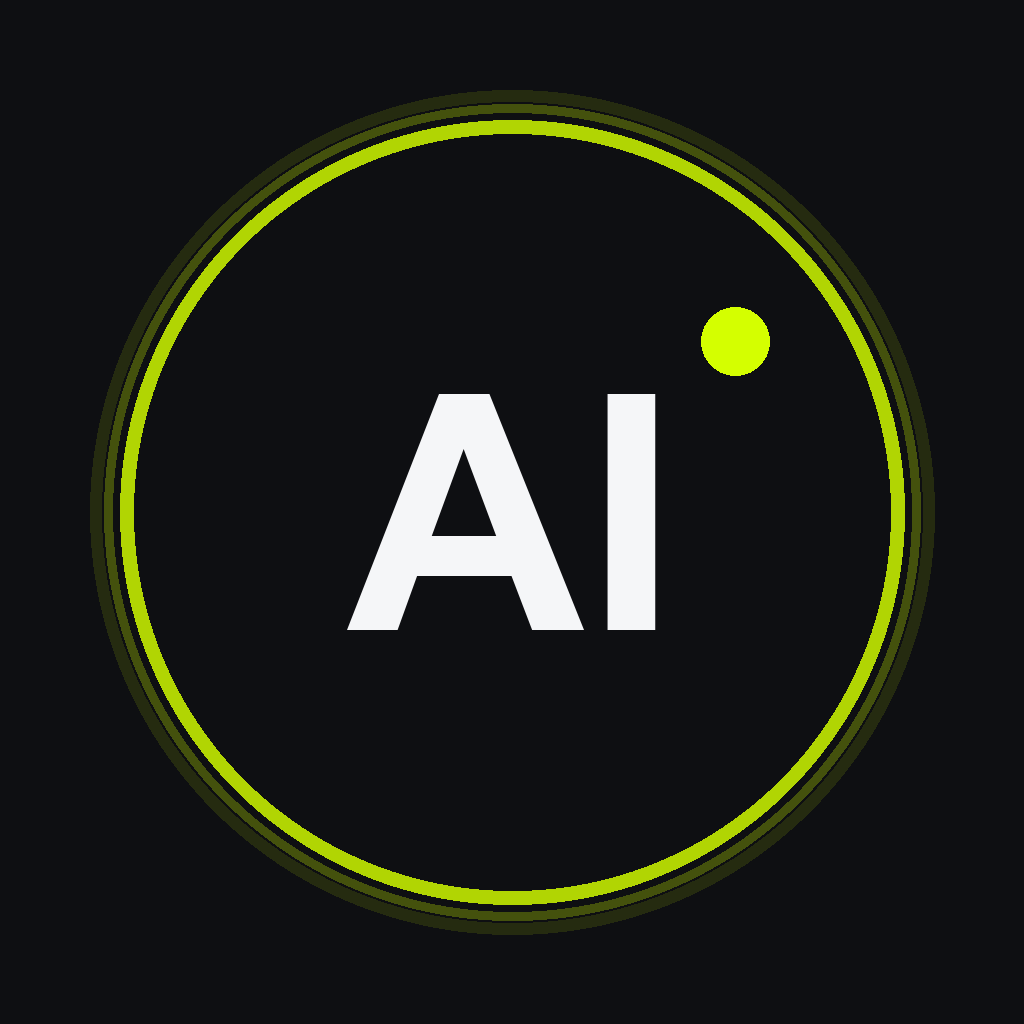
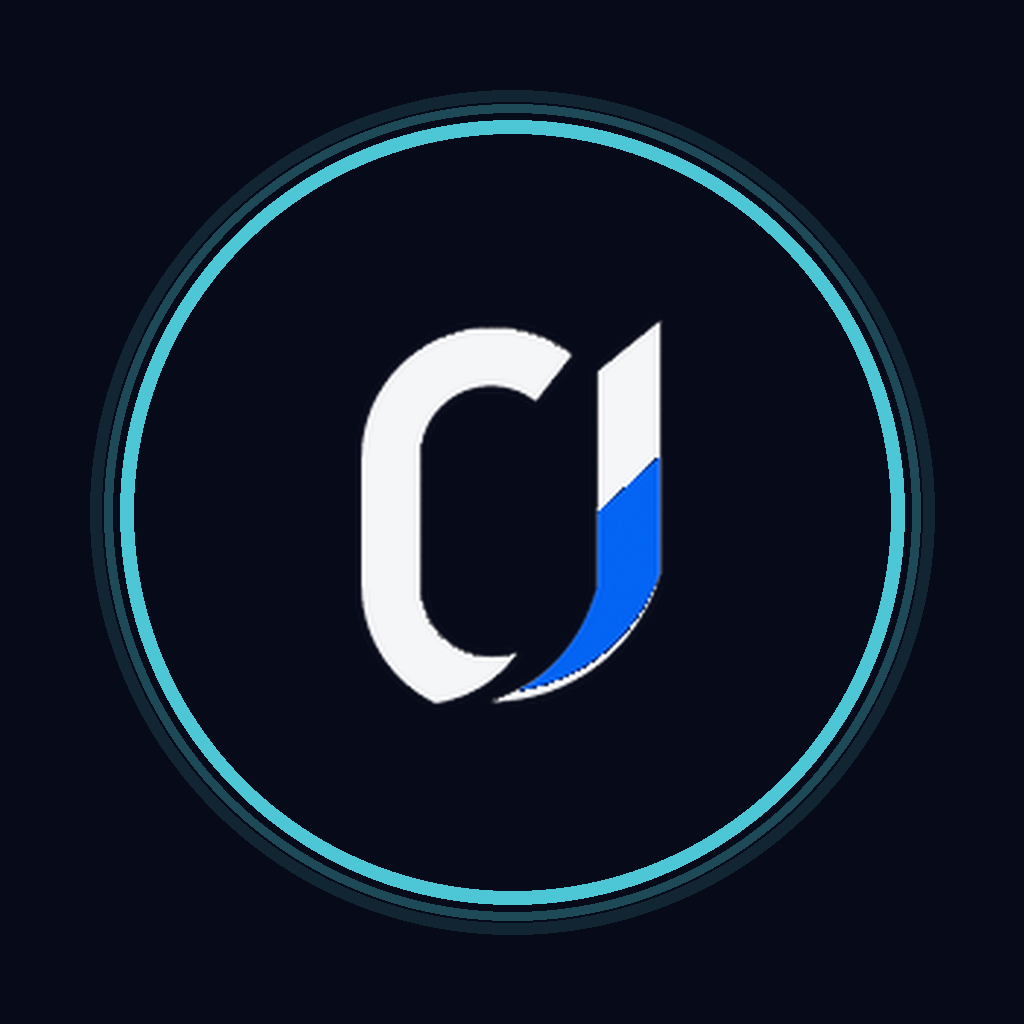
feat: 开屏与图标切换公司品牌——01WeiChuang 字标 + 官网深空视觉
负责人定稿方向:文字用英文 01WeiChuang,风格对齐公司官网
(01weichuang.com,深空蓝 #070A18 + 霓虹青 #5CF0FF + 径向顶光),
中心换公司图标:

- 官网 logo 摘取「01」字标并转白(黑色部分→白,保留品牌蓝斜杠,
  assets/images/company-mark.png)
- 开屏:官网同款径向渐变底(experimental_backgroundImage)+ 字标
  居中呼吸 + 青色彗星拖尾绕标 + 「01WeiChuang」逐字波浪(青色
  霓虹)+ 星点;≈2.6s 淡出
- 原生启动图/App 图标/Android 自适应图标同步公司品牌(深空底+
  青环+字标);boot 静帧衔接无闪变
- iPhone 已重建安装;模拟器实测通过

Changed region(s): [[0.0625, 0.0625, 0.9375, 0.9375], [0.3438, 0.3125, 0.6562, 0.6875], [0.6875, 0.2812, 0.75, 0.375]]

diff --git a/app/src/components/animated-icon.tsx b/app/src/components/animated-icon.tsx
@@ -1,6 +1,7 @@
-// 开屏动画:柔光弧环绕圈 + 「AI智能头盔」逐字波浪浮现 + 漂浮星点。
-// 节奏参照 uiverse popular-puma 加载动效(逐字 stagger 波浪 + 旋转辉光),
-// 实现与视觉全部按本项目暗色/荧光语言用 reanimated 重写,未引用其源码。
+// 开屏动画(公司品牌版):深空蓝底(官网径向渐变)+ 公司字标居中呼吸 +
+// 荧光彗星绕标扫圈 + 「01WeiChuang」逐字波浪(青色霓虹,官网 #5CF0FF)。
+// 节奏参照 uiverse popular-puma;实现为 reanimated 重写,未引用其源码。
+import { Image } from 'expo-image';
 import * as SplashScreen from 'expo-splash-screen';
 import { useEffect, useState } from 'react';
 import { StyleSheet, Text, View } from 'react-native';
@@ -15,15 +16,14 @@ import Animated, {
 } from 'react-native-reanimated';
 import { scheduleOnRN } from 'react-native-worklets';
 
-const BG = '#0E0F12';
-const BRAND = '#D4FF00';
-const CYCLE = 2000;        // 一轮波浪/一圈辉光
-const HOLD = 2400;         // 播完约一轮后开始淡出
+const BG = '#070A18';           // 官网深空底
+const CYAN = '#5CF0FF';         // 官网霓虹青
+const CYCLE = 2200;
+const HOLD = 2600;
 const FADE = 420;
 
-const LETTERS = ['A', 'I', '智', '能', '头', '盔'];
+const WORD = '01WeiChuang'.split('');
 
-/** 逐字:静默(暗、微糊感) → 提亮放大上浮 → 回落,按序错峰 */
 function WaveLetter({ ch, delay }: { ch: string; delay: number }) {
   const p = useSharedValue(0);
   useEffect(() => {
@@ -37,28 +37,26 @@ function WaveLetter({ ch, delay }: { ch: string; delay: number }) {
   const st = useAnimatedStyle(() => {
     const t = p.get();
     return {
-      opacity: interpolate(t, [0, 0.18, 0.4, 1], [0.3, 1, 0.42, 0.3]),
+      opacity: interpolate(t, [0, 0.16, 0.38, 1], [0.32, 1, 0.45, 0.32]),
       transform: [
-        { scale: interpolate(t, [0, 0.18, 0.4, 1], [1, 1.22, 1, 1]) },
-        { translateY: interpolate(t, [0, 0.18, 0.4, 1], [0, -4, 0, 0]) },
+        { scale: interpolate(t, [0, 0.16, 0.38, 1], [1, 1.24, 1, 1]) },
+        { translateY: interpolate(t, [0, 0.16, 0.38, 1], [0, -4, 0, 0]) },
       ],
-      textShadowRadius: interpolate(t, [0, 0.18, 0.4, 1], [0, 12, 2, 0]),
+      textShadowRadius: interpolate(t, [0, 0.16, 0.38, 1], [0, 14, 3, 0]),
     };
   });
   return (
-    <Animated.Text style={[styles.letter, { textShadowColor: BRAND }, st]}>{ch}</Animated.Text>
+    <Animated.Text style={[styles.letter, { textShadowColor: CYAN }, st]}>{ch}</Animated.Text>
   );
 }
 
-/** 环上柔光头尾双点,随容器整体旋转成"彗星扫圈" */
+/** 彗星绕公司字标扫圈(青色,双层拖尾) */
 function OrbitGlow() {
   const rot = useSharedValue(0);
   useEffect(() => {
     rot.set(withRepeat(withTiming(360, { duration: CYCLE, easing: Easing.linear }), -1, false));
   }, [rot]);
-  const st = useAnimatedStyle(() => ({
-    transform: [{ rotateZ: `${rot.get()}deg` }],
-  }));
+  const st = useAnimatedStyle(() => ({ transform: [{ rotateZ: `${rot.get()}deg` }] }));
   return (
     <Animated.View style={[styles.orbit, st]}>
       <View style={[styles.comet, { opacity: 0.95 }]} />
@@ -68,7 +66,26 @@ function OrbitGlow() {
   );
 }
 
-/** 漂浮星点:各自错峰呼吸 */
+/** 公司字标:轻微呼吸 */
+function Mark() {
+  const p = useSharedValue(0);
+  useEffect(() => {
+    p.set(withRepeat(withTiming(1, { duration: CYCLE, easing: Easing.inOut(Easing.quad) }), -1, true));
+  }, [p]);
+  const st = useAnimatedStyle(() => ({
+    transform: [{ scale: interpolate(p.get(), [0, 1], [1, 1.05]) }],
+  }));
+  return (
+    <Animated.View style={st}>
+      <Image
+        source={require('@/assets/images/company-mark.png')}
+        style={styles.mark}
+        contentFit="contain"
+      />
+    </Animated.View>
+  );
+}
+
 function Star({ x, y, size, delay }: { x: number; y: number; size: number; delay: number }) {
   const p = useSharedValue(0);
   useEffect(() => {
@@ -80,8 +97,8 @@ function Star({ x, y, size, delay }: { x: number; y: number; size: number; delay
     );
   }, [p, delay]);
   const st = useAnimatedStyle(() => ({
-    opacity: interpolate(p.get(), [0, 0.5, 1], [0.12, 0.6, 0.12]),
-    transform: [{ scale: interpolate(p.get(), [0, 0.5, 1], [0.9, 1.15, 0.9]) }],
+    opacity: interpolate(p.get(), [0, 0.5, 1], [0.1, 0.55, 0.1]),
+    transform: [{ scale: interpolate(p.get(), [0, 0.5, 1], [0.9, 1.2, 0.9]) }],
   }));
   return (
     <Animated.View
@@ -119,59 +136,74 @@ export function AnimatedSplashOverlay() {
 
   if (!visible) return null;
 
+  const staticContent = (
+    <>
+      <Image
+        source={require('@/assets/images/company-mark.png')}
+        style={styles.mark}
+        contentFit="contain"
+      />
+      <View style={styles.letterRow}>
+        {WORD.map((ch, i) => (
+          <Text key={i} style={[styles.letter, { opacity: 0.32 }]}>
+            {ch}
+          </Text>
+        ))}
+      </View>
+    </>
+  );
+
   if (phase === 'boot') {
-    // 首帧静态字标,与原生启动图(纯 AI 字标)视觉衔接,隐藏原生层后进入动画
     return (
       <View
         onLayout={() => {
           SplashScreen.hideAsync().finally(() => setPhase('anim'));
         }}
         style={styles.overlay}>
-        <View style={styles.letterRow}>
-          {LETTERS.map((ch, i) => (
-            <Text key={i} style={[styles.letter, { opacity: 0.3 }]}>
-              {ch}
-            </Text>
-          ))}
-        </View>
+        {staticContent}
       </View>
     );
   }
 
   return (
     <Animated.View style={[styles.overlay, overlayStyle]}>
-      <Star x={-96} y={-120} size={7} delay={300} />
-      <Star x={110} y={-72} size={5} delay={800} />
-      <Star x={-128} y={40} size={6} delay={100} />
-      <Star x={88} y={96} size={8} delay={550} />
-      <Star x={-40} y={148} size={5} delay={950} />
+      <Star x={-104} y={-150} size={6} delay={300} />
+      <Star x={120} y={-96} size={5} delay={800} />
+      <Star x={-136} y={20} size={6} delay={100} />
+      <Star x={96} y={70} size={7} delay={550} />
+      <Star x={-44} y={128} size={5} delay={950} />
       <View style={styles.stage}>
         <OrbitGlow />
-        <View style={styles.letterRow}>
-          {LETTERS.map((ch, i) => (
-            <WaveLetter key={i} ch={ch} delay={i * 120} />
-          ))}
-        </View>
+        <Mark />
+      </View>
+      <View style={styles.letterRow}>
+        {WORD.map((ch, i) => (
+          <WaveLetter key={i} ch={ch} delay={i * 90} />
+        ))}
       </View>
     </Animated.View>
   );
 }
 
-const RING = 316;
+const RING = 196;
 
 const styles = StyleSheet.create({
   overlay: {
     ...StyleSheet.absoluteFill,
-    backgroundColor: BG,
     alignItems: 'center',
     justifyContent: 'center',
     zIndex: 1000,
+    backgroundColor: BG,
+    // 官网主视觉的深蓝径向光(顶部偏右),RN 0.86 实验特性,失效则回落纯色
+    experimental_backgroundImage:
+      'radial-gradient(120% 100% at 70% 0%, #142A73 0%, #0A1024 55%, #070A18 100%)',
   },
   stage: {
     width: RING,
     height: RING,
     alignItems: 'center',
     justifyContent: 'center',
+    marginBottom: 26,
   },
   orbit: { ...StyleSheet.absoluteFill },
   comet: {
@@ -181,28 +213,23 @@ const styles = StyleSheet.create({
     width: 10,
     height: 10,
     borderRadius: 5,
-    backgroundColor: BRAND,
-    shadowColor: BRAND,
+    backgroundColor: CYAN,
+    shadowColor: CYAN,
     shadowOpacity: 1,
     shadowRadius: 12,
     shadowOffset: { width: 0, height: 0 },
     elevation: 12,
   },
-  cometTail1: {
-    opacity: 0.4,
-    transform: [{ translateX: -20 }, { translateY: 3 }, { scale: 0.7 }],
-  },
-  cometTail2: {
-    opacity: 0.18,
-    transform: [{ translateX: -38 }, { translateY: 9 }, { scale: 0.5 }],
-  },
-  letterRow: { flexDirection: 'row', alignItems: 'center', gap: 6 },
+  cometTail1: { opacity: 0.4, transform: [{ translateX: -18 }, { translateY: 3 }, { scale: 0.7 }] },
+  cometTail2: { opacity: 0.18, transform: [{ translateX: -34 }, { translateY: 8 }, { scale: 0.5 }] },
+  mark: { width: 108, height: 108 },
+  letterRow: { flexDirection: 'row', alignItems: 'center' },
   letter: {
-    color: '#F5F6F8',
-    fontSize: 30,
+    color: '#F0F6FF',
+    fontSize: 27,
     fontWeight: '800',
-    letterSpacing: 1,
+    letterSpacing: 1.5,
     textShadowOffset: { width: 0, height: 0 },
   },
-  star: { position: 'absolute', backgroundColor: BRAND },
+  star: { position: 'absolute', backgroundColor: CYAN },
 });
